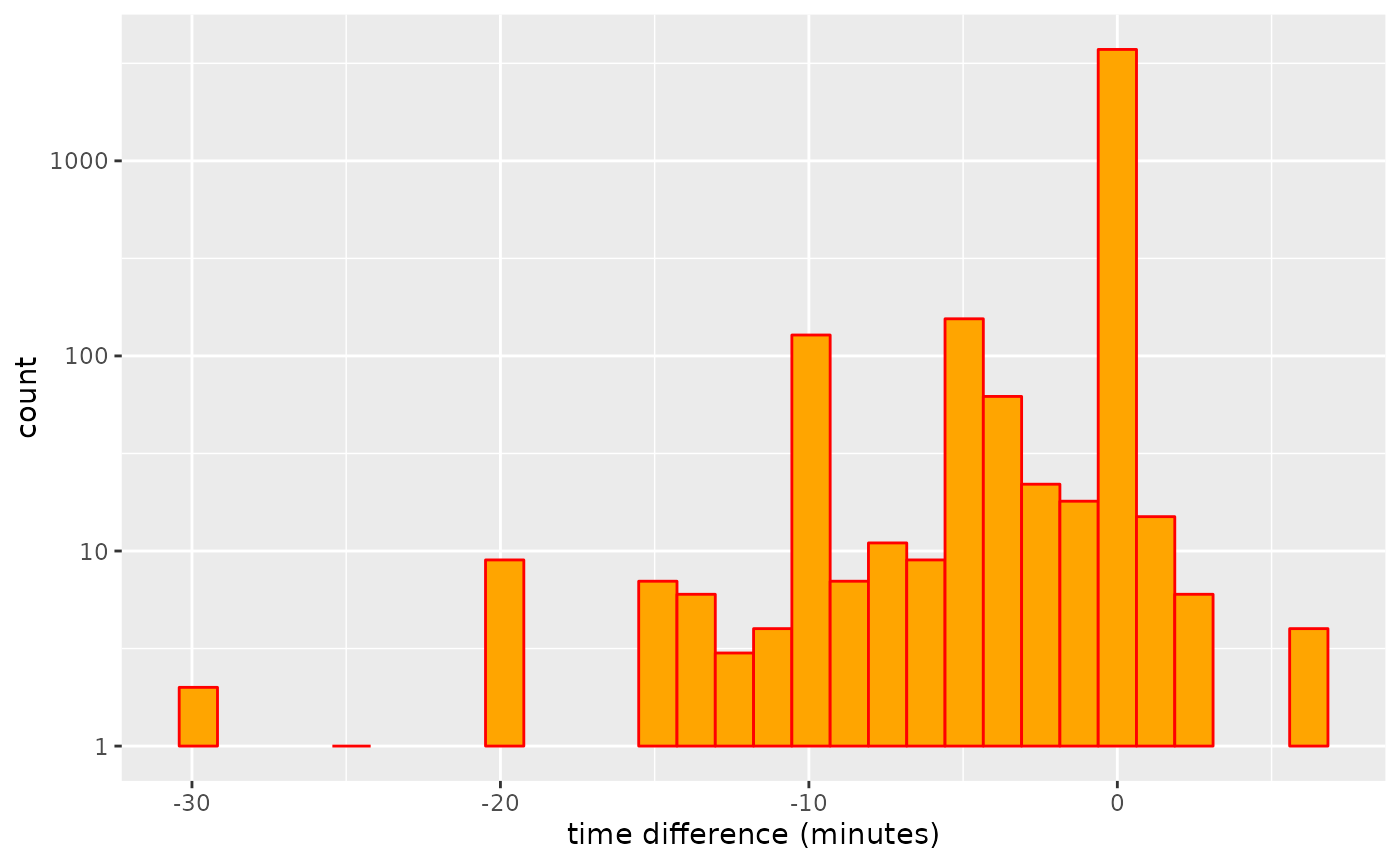
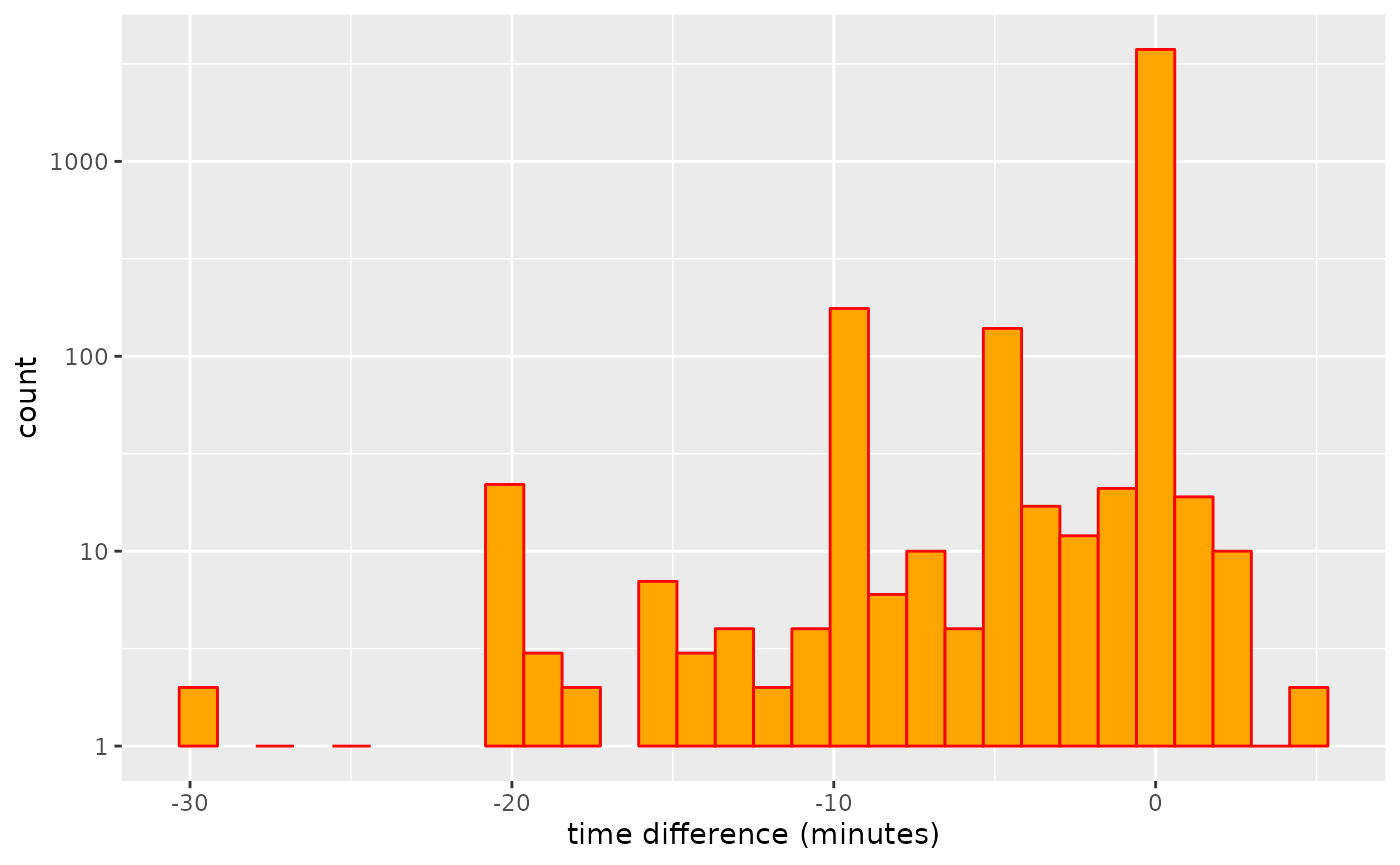
Deploying to gh-pages from @ UrbanAnalyst/gtfsrouter@5277b569f46ddb397c1f8bf805582e5b0f3d6365 🚀

diff --git a/docs/articles/gtfsrouter.html b/docs/articles/gtfsrouter.html
@@ -33,7 +33,7 @@
       </button>
       <span class="navbar-brand">
         <a class="navbar-link" href="../index.html">gtfsrouter</a>
-        <span class="version label label-default" data-toggle="tooltip" data-placement="bottom" title="">0.1.0</span>
+        <span class="version label label-default" data-toggle="tooltip" data-placement="bottom" title="">0.1.0.002</span>
       </span>
     </div>
 
@@ -98,15 +98,15 @@ site</a>.</p>
 handle GTFS data:</p>
 <ol style="list-style-type: decimal">
 <li>
-<a href="https://github.com/ropensci/gtfsr" class="external-link"><code>gtfsr</code></a>,
+<a href="https://github.com/ropensci-archive/gtfsr" class="external-link"><code>gtfsr</code></a>,
 hosted by <a href="https://ropensci.org" class="external-link">rOpenSci</a>, developed by <a href="https://github.com/dantonnoriega" class="external-link">Danton Noriega</a>, but no
 longer under active development.</li>
 <li>
 <a href="https://github.com/r-transit/tidytransit" class="external-link"><code>tidytransit</code></a>,
-which began as a fork of <a href="https://github.com/ropensci/gtfsr" class="external-link"><code>gtfsr</code></a>, and
-currently represents its successor. This package can be used to, “map
-transit stops and routes, calculate transit frequencies, and validate
-transit feeds [as well as to read] the General Transit Feed
+which began as a fork of <a href="https://github.com/ropensci-archive/gtfsr" class="external-link"><code>gtfsr</code></a>,
+and currently represents its successor. This package can be used to,
+“map transit stops and routes, calculate transit frequencies, and
+validate transit feeds [as well as to read] the General Transit Feed
 Specification into tidyverse and simple features dataframes.”</li>
 </ol>
 <p>The one thing neither of these packages enable is the use of GTFS
@@ -126,7 +126,7 @@ to a locally-stored <code>.zip</code> archive in the
 data can be exported and re-imported with:</p>
 <div class="sourceCode" id="cb1"><pre class="downlit sourceCode r">
 <code class="sourceCode R"><span><span class="fu"><a href="../reference/berlin_gtfs_to_zip.html">berlin_gtfs_to_zip</a></span><span class="op">(</span><span class="op">)</span></span></code></pre></div>
-<pre><code><span><span class="co">## [1] "/tmp/Rtmpg0johH/vbb.zip"</span></span></code></pre>
+<pre><code><span><span class="co">## [1] "/tmp/RtmpdDegAD/vbb.zip"</span></span></code></pre>
 <div class="sourceCode" id="cb3"><pre class="downlit sourceCode r">
 <code class="sourceCode R"><span><span class="va">f</span> <span class="op">&lt;-</span> <span class="fu"><a href="https://rdrr.io/r/base/file.path.html" class="external-link">file.path</a></span> <span class="op">(</span><span class="fu"><a href="https://rdrr.io/r/base/tempfile.html" class="external-link">tempdir</a></span> <span class="op">(</span><span class="op">)</span>, <span class="st">"vbb.zip"</span><span class="op">)</span></span>
 <span><span class="fu"><a href="https://rdrr.io/r/base/files.html" class="external-link">file.exists</a></span> <span class="op">(</span><span class="va">f</span><span class="op">)</span></span></code></pre></div>
@@ -347,7 +347,7 @@ data:</p>
 <span>                day <span class="op">=</span> <span class="st">"Sunday"</span><span class="op">)</span></span>
 <span>    <span class="op">)</span></span></code></pre></div>
 <pre><code><span><span class="co">##    user  system elapsed </span></span>
-<span><span class="co">##   0.088   0.000   0.088</span></span></code></pre>
+<span><span class="co">##   0.081   0.004   0.084</span></span></code></pre>
 <div class="sourceCode" id="cb14"><pre class="downlit sourceCode r">
 <code class="sourceCode R"><span><span class="fu"><a href="https://rdrr.io/r/base/names.html" class="external-link">names</a></span> <span class="op">(</span><span class="va">gtfs</span><span class="op">)</span></span></code></pre></div>
 <pre><code><span><span class="co">## [1] "calendar"   "routes"     "trips"      "stop_times" "stops"     </span></span>
@@ -365,7 +365,7 @@ data:</p>
 <span>                         to <span class="op">=</span> <span class="va">to</span>,</span>
 <span>                         start_time <span class="op">=</span> <span class="st">"12:00:00"</span><span class="op">)</span><span class="op">)</span></span></code></pre></div>
 <pre><code><span><span class="co">##    user  system elapsed </span></span>
-<span><span class="co">##   0.066   0.000   0.067</span></span></code></pre>
+<span><span class="co">##   0.057   0.004   0.061</span></span></code></pre>
 <p>Note that the <code>day</code> parameter is used to extract the
 timetable, after which it is no longer required in the actual call to
 <code><a href="../reference/gtfs_route.html">gtfs_route()</a></code>.</p>

diff --git a/docs/articles/traveltimes.html b/docs/articles/traveltimes.html
@@ -33,7 +33,7 @@
       </button>
       <span class="navbar-brand">
         <a class="navbar-link" href="../index.html">gtfsrouter</a>
-        <span class="version label label-default" data-toggle="tooltip" data-placement="bottom" title="">0.1.0</span>
+        <span class="version label label-default" data-toggle="tooltip" data-placement="bottom" title="">0.1.0.002</span>
       </span>
     </div>
 
@@ -101,7 +101,7 @@ function</a>, is necessary prior to calculating travel times.</p>
 <div class="sourceCode" id="cb1"><pre class="downlit sourceCode r">
 <code class="sourceCode R"><span><span class="kw"><a href="https://rdrr.io/r/base/library.html" class="external-link">library</a></span> <span class="op">(</span><span class="va"><a href="https://github.com/UrbanAnalyst/gtfsrouter" class="external-link">gtfsrouter</a></span><span class="op">)</span></span>
 <span><span class="fu"><a href="../reference/berlin_gtfs_to_zip.html">berlin_gtfs_to_zip</a></span> <span class="op">(</span><span class="op">)</span></span></code></pre></div>
-<pre><code><span><span class="co">## [1] "/tmp/RtmpdLeuhi/vbb.zip"</span></span></code></pre>
+<pre><code><span><span class="co">## [1] "/tmp/RtmpqEcuyv/vbb.zip"</span></span></code></pre>
 <div class="sourceCode" id="cb3"><pre class="downlit sourceCode r">
 <code class="sourceCode R"><span><span class="va">f</span> <span class="op">&lt;-</span> <span class="fu"><a href="https://rdrr.io/r/base/file.path.html" class="external-link">file.path</a></span> <span class="op">(</span><span class="fu"><a href="https://rdrr.io/r/base/tempfile.html" class="external-link">tempdir</a></span> <span class="op">(</span><span class="op">)</span>, <span class="st">"vbb.zip"</span><span class="op">)</span></span>
 <span><span class="va">gtfs</span> <span class="op">&lt;-</span> <span class="fu"><a href="../reference/extract_gtfs.html">extract_gtfs</a></span> <span class="op">(</span><span class="va">f</span>, quiet <span class="op">=</span> <span class="cn">TRUE</span><span class="op">)</span></span>

diff --git a/docs/reference/gtfs_transfer_table.html b/docs/reference/gtfs_transfer_table.html
@@ -17,7 +17,7 @@
       </button>
       <span class="navbar-brand">
         <a class="navbar-link" href="../index.html">gtfsrouter</a>
-        <span class="version label label-default" data-toggle="tooltip" data-placement="bottom" title="">0.1.0</span>
+        <span class="version label label-default" data-toggle="tooltip" data-placement="bottom" title="">0.1.0.002</span>
       </span>
     </div>
 
@@ -113,7 +113,7 @@ provided, this parameter is automatically set to <code>TRUE</code>.</p></dd>
     <div id="ref-examples">
     <h2>Examples</h2>
     <div class="sourceCode"><pre class="sourceCode r"><code><span class="r-in"><span><span class="fu"><a href="berlin_gtfs_to_zip.html">berlin_gtfs_to_zip</a></span> <span class="op">(</span><span class="op">)</span></span></span>
-<span class="r-out co"><span class="r-pr">#&gt;</span> [1] "/tmp/RtmpU9jlm9/vbb.zip"</span>
+<span class="r-out co"><span class="r-pr">#&gt;</span> [1] "/tmp/RtmpWwPHQl/vbb.zip"</span>
 <span class="r-in"><span><span class="va">f</span> <span class="op">&lt;-</span> <span class="fu"><a href="https://rdrr.io/r/base/file.path.html" class="external-link">file.path</a></span> <span class="op">(</span><span class="fu"><a href="https://rdrr.io/r/base/tempfile.html" class="external-link">tempdir</a></span> <span class="op">(</span><span class="op">)</span>, <span class="st">"vbb.zip"</span><span class="op">)</span></span></span>
 <span class="r-in"><span><span class="va">g</span> <span class="op">&lt;-</span> <span class="fu"><a href="extract_gtfs.html">extract_gtfs</a></span> <span class="op">(</span><span class="va">f</span>, quiet <span class="op">=</span> <span class="cn">TRUE</span><span class="op">)</span></span></span>
 <span class="r-in"><span><span class="va">g</span> <span class="op">&lt;-</span> <span class="fu">gtfs_transfer_table</span> <span class="op">(</span><span class="va">g</span>, d_limit <span class="op">=</span> <span class="fl">200</span><span class="op">)</span></span></span>

diff --git a/docs/reference/gtfs_route.html b/docs/reference/gtfs_route.html
@@ -18,7 +18,7 @@ a specified time."><!-- mathjax --><script src="https://cdnjs.cloudflare.com/aja
       </button>
       <span class="navbar-brand">
         <a class="navbar-link" href="../index.html">gtfsrouter</a>
-        <span class="version label label-default" data-toggle="tooltip" data-placement="bottom" title="">0.1.0</span>
+        <span class="version label label-default" data-toggle="tooltip" data-placement="bottom" title="">0.1.0.002</span>
       </span>
     </div>
 
@@ -182,7 +182,7 @@ can be calculated by setting <code>earliest_arrival = FALSE</code>.</p>
     <div id="ref-examples">
     <h2>Examples</h2>
     <div class="sourceCode"><pre class="sourceCode r"><code><span class="r-in"><span><span class="fu"><a href="berlin_gtfs_to_zip.html">berlin_gtfs_to_zip</a></span> <span class="op">(</span><span class="op">)</span> <span class="co"># Write sample feed from Berlin, Germany to tempdir</span></span></span>
-<span class="r-out co"><span class="r-pr">#&gt;</span> [1] "/tmp/RtmpU9jlm9/vbb.zip"</span>
+<span class="r-out co"><span class="r-pr">#&gt;</span> [1] "/tmp/RtmpWwPHQl/vbb.zip"</span>
 <span class="r-in"><span><span class="va">f</span> <span class="op">&lt;-</span> <span class="fu"><a href="https://rdrr.io/r/base/file.path.html" class="external-link">file.path</a></span> <span class="op">(</span><span class="fu"><a href="https://rdrr.io/r/base/tempfile.html" class="external-link">tempdir</a></span> <span class="op">(</span><span class="op">)</span>, <span class="st">"vbb.zip"</span><span class="op">)</span> <span class="co"># name of feed</span></span></span>
 <span class="r-in"><span><span class="va">gtfs</span> <span class="op">&lt;-</span> <span class="fu"><a href="extract_gtfs.html">extract_gtfs</a></span> <span class="op">(</span><span class="va">f</span><span class="op">)</span></span></span>
 <span class="r-msg co"><span class="r-pr">#&gt;</span> ▶<span style="color: #00BB00;"> Unzipping GTFS archive</span></span>

diff --git a/docs/reference/berlin_gtfs.html b/docs/reference/berlin_gtfs.html
@@ -23,7 +23,7 @@ characters.'><!-- mathjax --><script src="https://cdnjs.cloudflare.com/ajax/libs
       </button>
       <span class="navbar-brand">
         <a class="navbar-link" href="../index.html">gtfsrouter</a>
-        <span class="version label label-default" data-toggle="tooltip" data-placement="bottom" title="">0.1.0</span>
+        <span class="version label label-default" data-toggle="tooltip" data-placement="bottom" title="">0.1.0.002</span>
       </span>
     </div>
 
@@ -96,7 +96,7 @@ for which no route is possible return <code>NULL</code>.</p>
     <div id="ref-examples">
     <h2>Examples</h2>
     <div class="sourceCode"><pre class="sourceCode r"><code><span class="r-in"><span><span class="fu"><a href="berlin_gtfs_to_zip.html">berlin_gtfs_to_zip</a></span> <span class="op">(</span><span class="op">)</span> <span class="co"># Write sample feed from Berlin, Germany to tempdir</span></span></span>
-<span class="r-out co"><span class="r-pr">#&gt;</span> [1] "/tmp/RtmpU9jlm9/vbb.zip"</span>
+<span class="r-out co"><span class="r-pr">#&gt;</span> [1] "/tmp/RtmpWwPHQl/vbb.zip"</span>
 <span class="r-in"><span><span class="va">f</span> <span class="op">&lt;-</span> <span class="fu"><a href="https://rdrr.io/r/base/file.path.html" class="external-link">file.path</a></span> <span class="op">(</span><span class="fu"><a href="https://rdrr.io/r/base/tempfile.html" class="external-link">tempdir</a></span> <span class="op">(</span><span class="op">)</span>, <span class="st">"vbb.zip"</span><span class="op">)</span> <span class="co"># name of feed</span></span></span>
 <span class="r-in"><span><span class="va">gtfs</span> <span class="op">&lt;-</span> <span class="fu"><a href="extract_gtfs.html">extract_gtfs</a></span> <span class="op">(</span><span class="va">f</span><span class="op">)</span></span></span>
 <span class="r-msg co"><span class="r-pr">#&gt;</span> ▶<span style="color: #00BB00;"> Unzipping GTFS archive</span></span>

diff --git a/docs/reference/gtfs_timetable.html b/docs/reference/gtfs_timetable.html
@@ -17,7 +17,7 @@
       </button>
       <span class="navbar-brand">
         <a class="navbar-link" href="../index.html">gtfsrouter</a>
-        <span class="version label label-default" data-toggle="tooltip" data-placement="bottom" title="">0.1.0</span>
+        <span class="version label label-default" data-toggle="tooltip" data-placement="bottom" title="">0.1.0.002</span>
       </span>
     </div>
 
@@ -126,7 +126,7 @@ that case will generally take longer.</p>
     <div id="ref-examples">
     <h2>Examples</h2>
     <div class="sourceCode"><pre class="sourceCode r"><code><span class="r-in"><span><span class="fu"><a href="berlin_gtfs_to_zip.html">berlin_gtfs_to_zip</a></span> <span class="op">(</span><span class="op">)</span> <span class="co"># Write sample feed from Berlin, Germany to tempdir</span></span></span>
-<span class="r-out co"><span class="r-pr">#&gt;</span> [1] "/tmp/RtmpU9jlm9/vbb.zip"</span>
+<span class="r-out co"><span class="r-pr">#&gt;</span> [1] "/tmp/RtmpWwPHQl/vbb.zip"</span>
 <span class="r-in"><span><span class="va">f</span> <span class="op">&lt;-</span> <span class="fu"><a href="https://rdrr.io/r/base/file.path.html" class="external-link">file.path</a></span> <span class="op">(</span><span class="fu"><a href="https://rdrr.io/r/base/tempfile.html" class="external-link">tempdir</a></span> <span class="op">(</span><span class="op">)</span>, <span class="st">"vbb.zip"</span><span class="op">)</span> <span class="co"># name of feed</span></span></span>
 <span class="r-in"><span><span class="va">gtfs</span> <span class="op">&lt;-</span> <span class="fu"><a href="extract_gtfs.html">extract_gtfs</a></span> <span class="op">(</span><span class="va">f</span><span class="op">)</span></span></span>
 <span class="r-msg co"><span class="r-pr">#&gt;</span> ▶<span style="color: #00BB00;"> Unzipping GTFS archive</span></span>

diff --git a/docs/reference/gtfs_traveltimes.html b/docs/reference/gtfs_traveltimes.html
@@ -18,7 +18,7 @@ other reachable station in a system."><!-- mathjax --><script src="https://cdnjs
       </button>
       <span class="navbar-brand">
         <a class="navbar-link" href="../index.html">gtfsrouter</a>
-        <span class="version label label-default" data-toggle="tooltip" data-placement="bottom" title="">0.1.0</span>
+        <span class="version label label-default" data-toggle="tooltip" data-placement="bottom" title="">0.1.0.002</span>
       </span>
     </div>
 
@@ -155,7 +155,7 @@ to reach all or most stations desired for a particular query, rather than set
     <div id="ref-examples">
     <h2>Examples</h2>
     <div class="sourceCode"><pre class="sourceCode r"><code><span class="r-in"><span><span class="fu"><a href="berlin_gtfs_to_zip.html">berlin_gtfs_to_zip</a></span> <span class="op">(</span><span class="op">)</span></span></span>
-<span class="r-out co"><span class="r-pr">#&gt;</span> [1] "/tmp/RtmpU9jlm9/vbb.zip"</span>
+<span class="r-out co"><span class="r-pr">#&gt;</span> [1] "/tmp/RtmpWwPHQl/vbb.zip"</span>
 <span class="r-in"><span><span class="va">f</span> <span class="op">&lt;-</span> <span class="fu"><a href="https://rdrr.io/r/base/file.path.html" class="external-link">file.path</a></span> <span class="op">(</span><span class="fu"><a href="https://rdrr.io/r/base/tempfile.html" class="external-link">tempdir</a></span> <span class="op">(</span><span class="op">)</span>, <span class="st">"vbb.zip"</span><span class="op">)</span></span></span>
 <span class="r-in"><span><span class="va">g</span> <span class="op">&lt;-</span> <span class="fu"><a href="extract_gtfs.html">extract_gtfs</a></span> <span class="op">(</span><span class="va">f</span><span class="op">)</span></span></span>
 <span class="r-msg co"><span class="r-pr">#&gt;</span> ▶<span style="color: #00BB00;"> Unzipping GTFS archive</span></span>

diff --git a/docs/reference/extract_gtfs.html b/docs/reference/extract_gtfs.html
@@ -17,7 +17,7 @@
       </button>
       <span class="navbar-brand">
         <a class="navbar-link" href="../index.html">gtfsrouter</a>
-        <span class="version label label-default" data-toggle="tooltip" data-placement="bottom" title="">0.1.0</span>
+        <span class="version label label-default" data-toggle="tooltip" data-placement="bottom" title="">0.1.0.002</span>
       </span>
     </div>
 
@@ -102,7 +102,7 @@ function to the two time columns of the "stop_times" table.</p>
     <div id="ref-examples">
     <h2>Examples</h2>
     <div class="sourceCode"><pre class="sourceCode r"><code><span class="r-in"><span><span class="fu"><a href="berlin_gtfs_to_zip.html">berlin_gtfs_to_zip</a></span> <span class="op">(</span><span class="op">)</span> <span class="co"># Write sample feed from Berlin, Germany to tempdir</span></span></span>
-<span class="r-out co"><span class="r-pr">#&gt;</span> [1] "/tmp/RtmpU9jlm9/vbb.zip"</span>
+<span class="r-out co"><span class="r-pr">#&gt;</span> [1] "/tmp/RtmpWwPHQl/vbb.zip"</span>
 <span class="r-in"><span><span class="va">f</span> <span class="op">&lt;-</span> <span class="fu"><a href="https://rdrr.io/r/base/file.path.html" class="external-link">file.path</a></span> <span class="op">(</span><span class="fu"><a href="https://rdrr.io/r/base/tempfile.html" class="external-link">tempdir</a></span> <span class="op">(</span><span class="op">)</span>, <span class="st">"vbb.zip"</span><span class="op">)</span> <span class="co"># name of feed</span></span></span>
 <span class="r-in"><span><span class="va">gtfs</span> <span class="op">&lt;-</span> <span class="fu">extract_gtfs</span> <span class="op">(</span><span class="va">f</span><span class="op">)</span></span></span>
 <span class="r-msg co"><span class="r-pr">#&gt;</span> ▶<span style="color: #00BB00;"> Unzipping GTFS archive</span></span>

diff --git a/docs/articles/transfers.html b/docs/articles/transfers.html
@@ -33,7 +33,7 @@
       </button>
       <span class="navbar-brand">
         <a class="navbar-link" href="../index.html">gtfsrouter</a>
-        <span class="version label label-default" data-toggle="tooltip" data-placement="bottom" title="">0.1.0</span>
+        <span class="version label label-default" data-toggle="tooltip" data-placement="bottom" title="">0.1.0.002</span>
       </span>
     </div>
 
@@ -594,9 +594,9 @@ range of distance limits.</p>
 <p><img src="transfers_files/figure-html/plot1-1.png" width="700"></p>
 <p>And these additional transfer possibilities can make a significant
 difference to estimated travel times. Note, however, that the travel
-times only changed for 466 stations, while the value of
+times only changed for 469 stations, while the value of
 <code>nsame</code> value recording numbers of stations for which travel
-times did not change was 5,062. Travel times may also increase as
+times did not change was 5,793. Travel times may also increase as
 additional transfers may be used to reduce numbers of connecting
 services required for a particular trip, and the algorithm generally
 searches for connections with minimal numbers of transfers.</p>
@@ -678,7 +678,7 @@ limits of maximal transfer distance, although the overall effect is very
 minimal. The object <code>d</code> also records the proportion of
 station pairs for which modifications to the transfers table actually
 changed travel times, which in this case amounts to a mean value of
-0.0021, clearly revealing that very few trips actually change.</p>
+6^{-4}, clearly revealing that very few trips actually change.</p>
 <div class="section level3">
 <h3 id="a-more-realistic-example">A more realistic example<a class="anchor" aria-label="anchor" href="#a-more-realistic-example"></a>
 </h3>

diff --git a/docs/reference/summary.gtfs.html b/docs/reference/summary.gtfs.html
@@ -17,7 +17,7 @@
       </button>
       <span class="navbar-brand">
         <a class="navbar-link" href="../index.html">gtfsrouter</a>
-        <span class="version label label-default" data-toggle="tooltip" data-placement="bottom" title="">0.1.0</span>
+        <span class="version label label-default" data-toggle="tooltip" data-placement="bottom" title="">0.1.0.002</span>
       </span>
     </div>
 
@@ -81,7 +81,7 @@
     <div id="ref-examples">
     <h2>Examples</h2>
     <div class="sourceCode"><pre class="sourceCode r"><code><span class="r-in"><span><span class="fu"><a href="berlin_gtfs_to_zip.html">berlin_gtfs_to_zip</a></span> <span class="op">(</span><span class="op">)</span></span></span>
-<span class="r-out co"><span class="r-pr">#&gt;</span> [1] "/tmp/RtmpU9jlm9/vbb.zip"</span>
+<span class="r-out co"><span class="r-pr">#&gt;</span> [1] "/tmp/RtmpWwPHQl/vbb.zip"</span>
 <span class="r-in"><span><span class="va">f</span> <span class="op">&lt;-</span> <span class="fu"><a href="https://rdrr.io/r/base/file.path.html" class="external-link">file.path</a></span> <span class="op">(</span><span class="fu"><a href="https://rdrr.io/r/base/tempfile.html" class="external-link">tempdir</a></span> <span class="op">(</span><span class="op">)</span>, <span class="st">"vbb.zip"</span><span class="op">)</span></span></span>
 <span class="r-in"><span><span class="va">g</span> <span class="op">&lt;-</span> <span class="fu"><a href="extract_gtfs.html">extract_gtfs</a></span> <span class="op">(</span><span class="va">f</span><span class="op">)</span></span></span>
 <span class="r-msg co"><span class="r-pr">#&gt;</span> ▶<span style="color: #00BB00;"> Unzipping GTFS archive</span></span>

diff --git a/docs/authors.html b/docs/authors.html
@@ -17,7 +17,7 @@
       </button>
       <span class="navbar-brand">
         <a class="navbar-link" href="index.html">gtfsrouter</a>
-        <span class="version label label-default" data-toggle="tooltip" data-placement="bottom" title="">0.1.0</span>
+        <span class="version label label-default" data-toggle="tooltip" data-placement="bottom" title="">0.1.0.002</span>
       </span>
     </div>
 
@@ -74,13 +74,13 @@
 
     <p>Padgham M, Stepniak M (2023).
 <em>gtfsrouter: Routing with GTFS (General Transit Feed Specification) Data</em>.
-R package version 0.1.0, <a href="https://github.com/UrbanAnalyst/gtfsrouter" class="external-link">https://github.com/UrbanAnalyst/gtfsrouter</a>. 
+R package version 0.1.0.002, <a href="https://github.com/UrbanAnalyst/gtfsrouter" class="external-link">https://github.com/UrbanAnalyst/gtfsrouter</a>. 
 </p>
     <pre>@Manual{,
   title = {gtfsrouter: Routing with GTFS (General Transit Feed Specification) Data},
   author = {Mark Padgham and Marcin Stepniak},
   year = {2023},
-  note = {R package version 0.1.0},
+  note = {R package version 0.1.0.002},
   url = {https://github.com/UrbanAnalyst/gtfsrouter},
 }</pre>
 

diff --git a/docs/reference/berlin_gtfs_to_zip.html b/docs/reference/berlin_gtfs_to_zip.html
@@ -18,7 +18,7 @@ a file named "vbb.zip" to tempdir().'><!-- mathjax --><script src="https://cdnjs
       </button>
       <span class="navbar-brand">
         <a class="navbar-link" href="../index.html">gtfsrouter</a>
-        <span class="version label label-default" data-toggle="tooltip" data-placement="bottom" title="">0.1.0</span>
+        <span class="version label label-default" data-toggle="tooltip" data-placement="bottom" title="">0.1.0.002</span>
       </span>
     </div>
 
